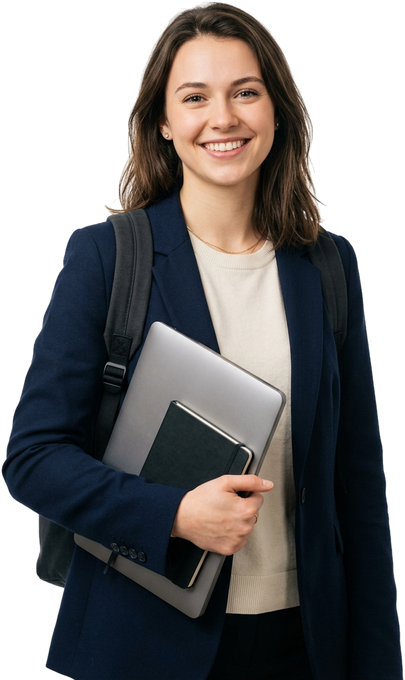
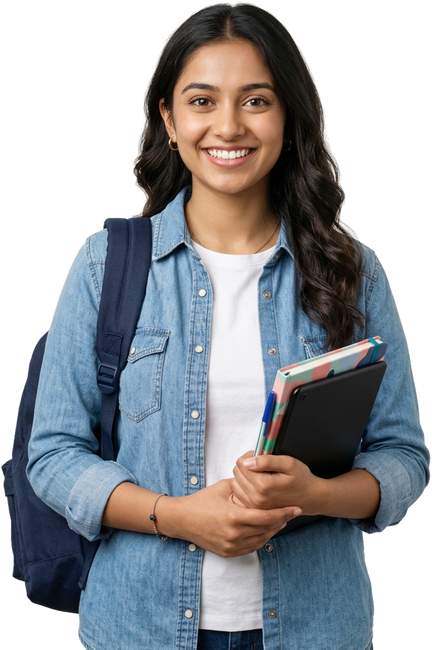
feat: replace hero student image with new photorealistic Indian candidate cutout matching uploaded reference

diff --git a/index.html b/index.html
@@ -217,7 +217,7 @@ img:is([sizes=auto i],[sizes^="auto," i]){contain-intrinsic-size:3000px 1500px}
 						</div>
 						<div class="col-12 col-lg-4 col-xl-5">
 							<div class="banner-image">
-								<img src="assets/images/banner-student-img.png" alt="banner-image">
+								<img src="assets/images/banner-student-img.png?v=3" alt="Solavanta Careers Student">
 							</div>
 							<div class="logo-icon">
 								<img src="assets/images/logo-icon.svg" alt="">
